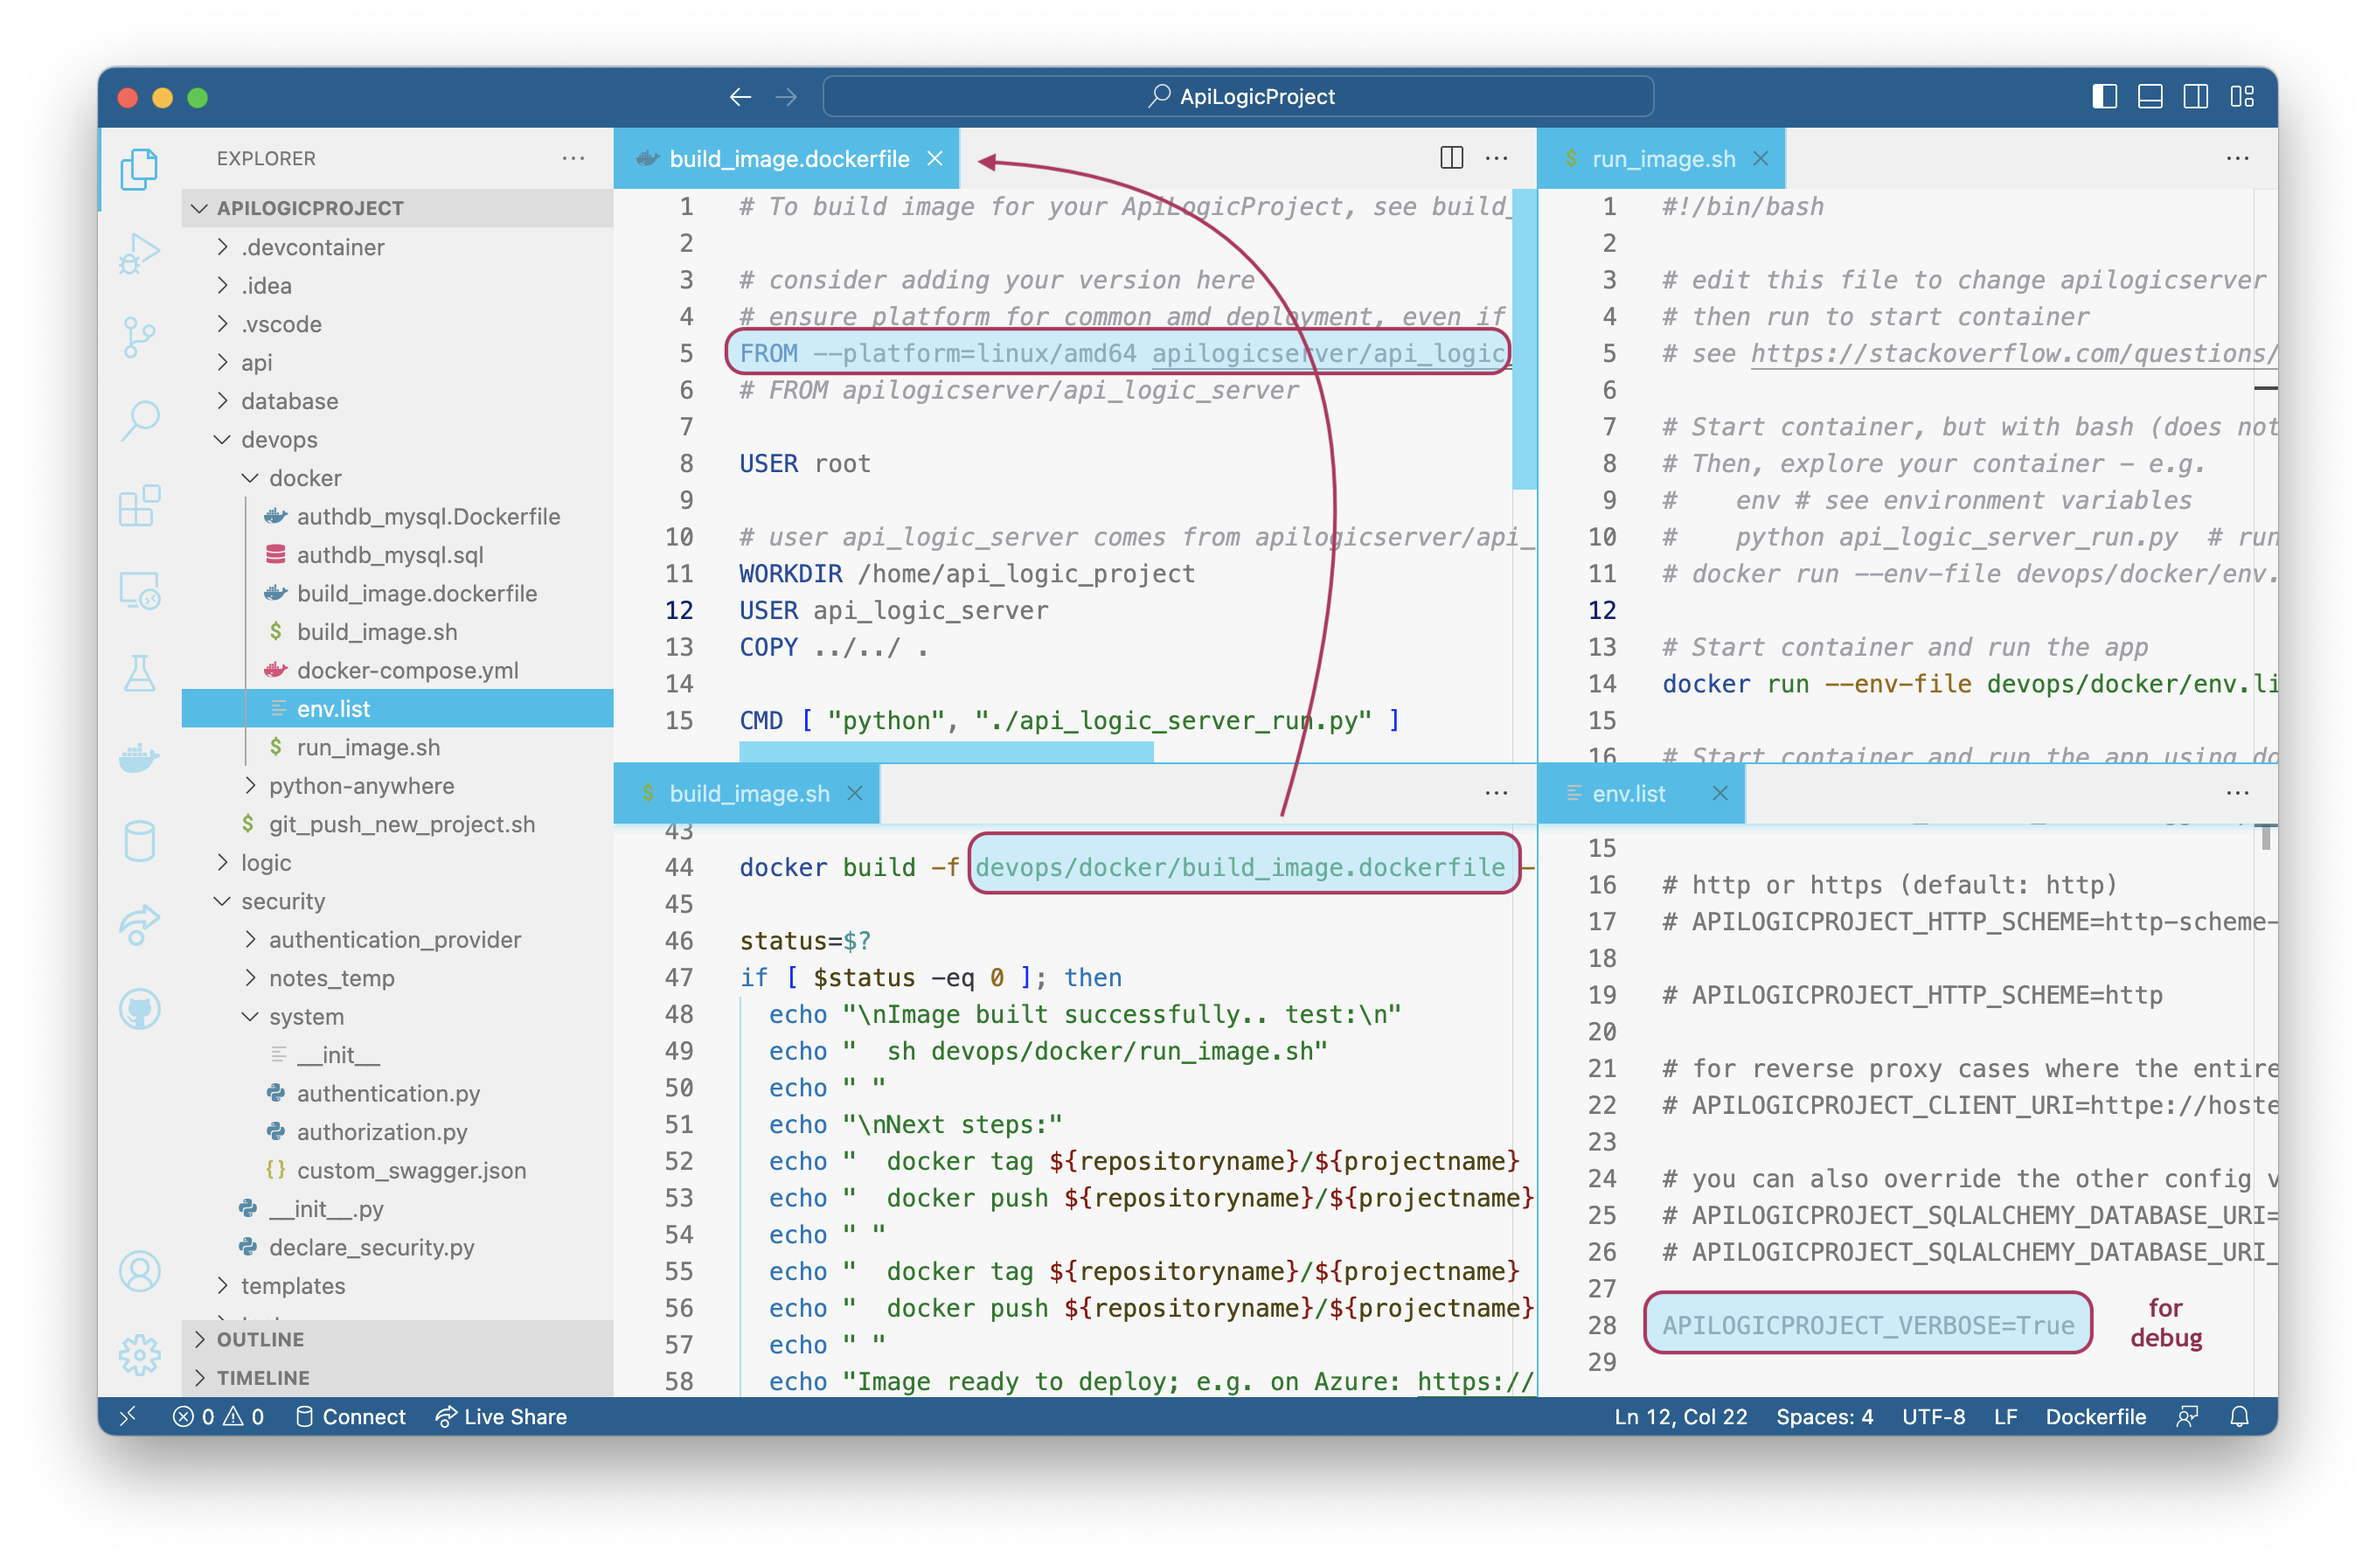
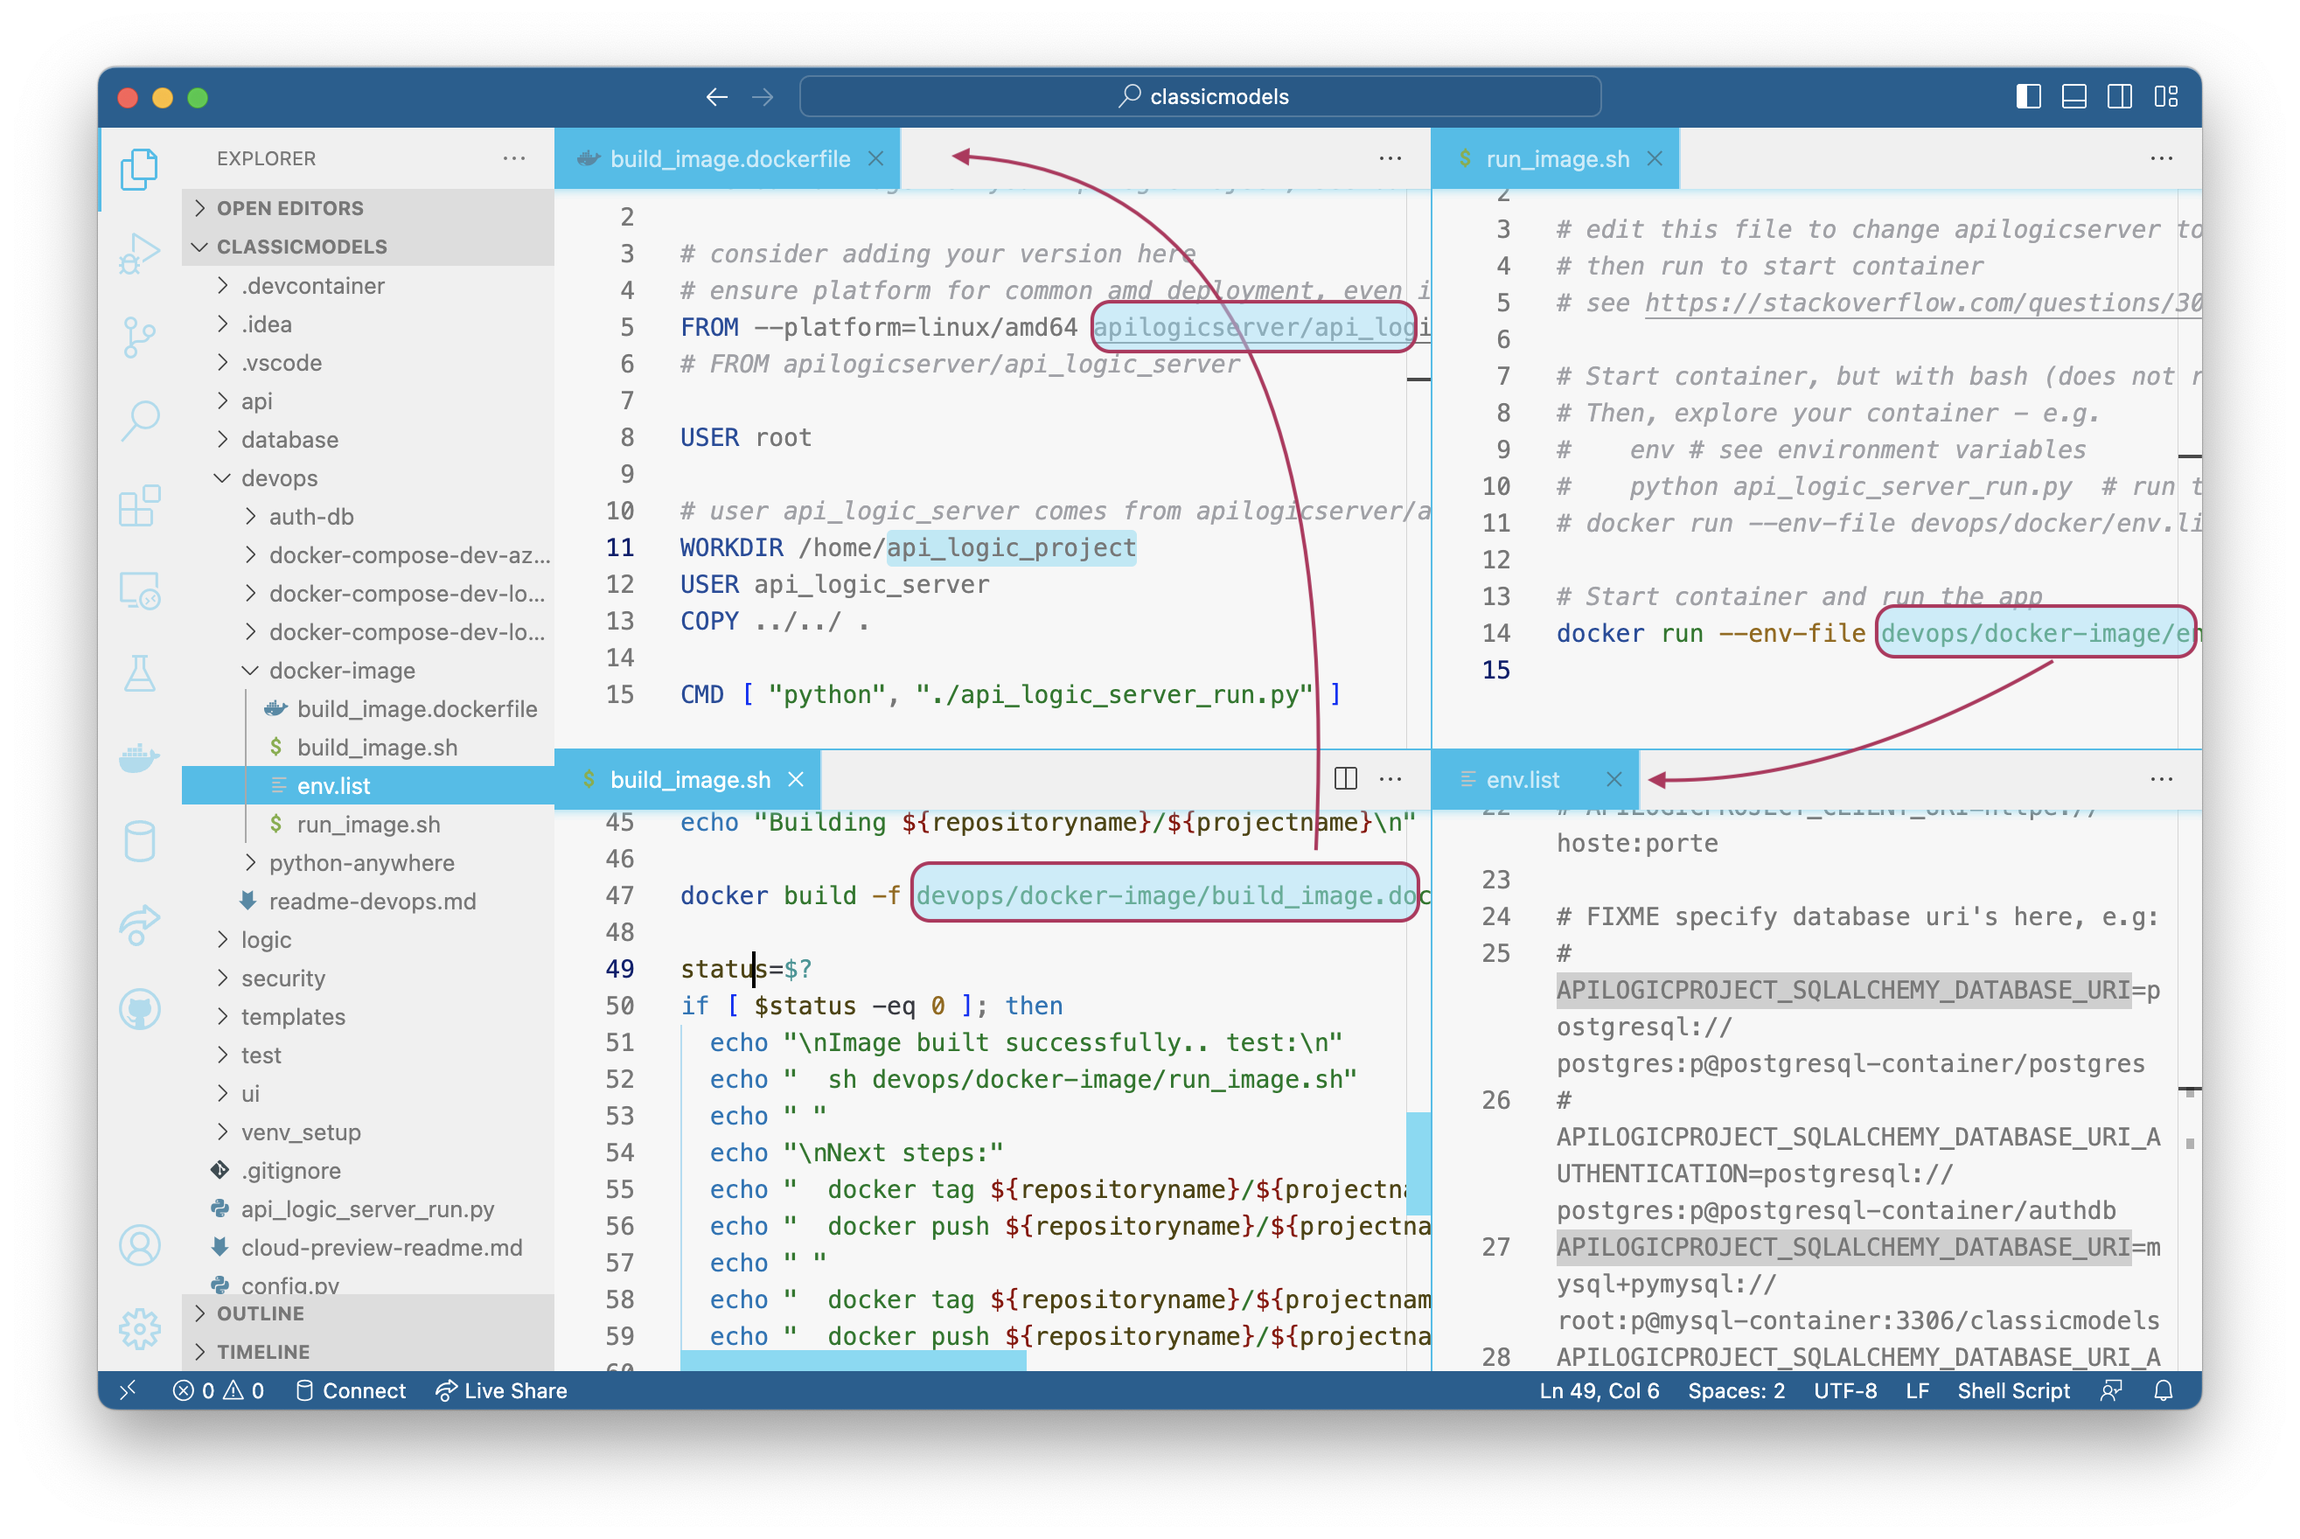
new dir structure

diff --git a/docs/DevOps-Containers-Build.md b/docs/DevOps-Containers-Build.md
@@ -32,10 +32,10 @@ To build an image for your ApiLogicProject:
 1. On Docker Hub, create a docker repository under your docker account. 
 2. Create / customize your project as your normally would
 3. Edit `build-image.sh`: change `your_account/your_repository` as appropriate
-    * Here is [an example](https://github.com/ApiLogicServer/demo/blob/main/devops/docker/build_image.sh){:target="_blank" rel="noopener"}
+    * Here is [an example](https://github.com/ApiLogicServer/demo/blob/main/devops/docker-image/build_image.sh){:target="_blank" rel="noopener"}
 4. In terminal (not in VSCode docker - docker CLI is not installed there), <br>`cd < your-project>`
-5. Run `build-image.sh`: <br> `sh devops/docker/build_image.sh .   # builds the image locally`
-    * Test the image locally - [see Run Container](../DevOps-Containers-Run)
+5. Run `build-image.sh`: <br> `sh devops/docker-image/build_image.sh .   # builds the image locally`
+    * Test the image locally - [see Run Container](../DevOps-Containers-Run){:target="_blank" rel="noopener"}
 
 6. Deploy to Docker Hub
 
@@ -61,13 +61,8 @@ Your project may require additional packages not already included with API Logic
 
 ## MyDB: Test Databases
 
-One of the great things about Docker is the ability to install popular databases, with no hassle.  Follow the procedures described in [Connection Examples](../Database-Connectivity/#docker-databases){:target="_blank" rel="noopener"}.
+One of the great things about Docker is the ability to install popular databases, with no hassle.  Follow the procedures described in [Connection Examples](../Database-Docker/#create-your-own-db-image){:target="_blank" rel="noopener"}.
 
-If you wish, you can add your own database / test data to the pre-supplied [repositories](https://hub.docker.com/repositories/apilogicserver){:target="_blank" rel="noopener"}, and then build an image from the updated result.
-
-> [See here](../Tech-Docker/#preparing-a-database-image-for-self-contained-databases){:target="_blank" rel="noopener"} for notes on how to update / save a docker image.
-
-In most cases, images are code, not data.  The DBMS images, however, include their own data.  This enables fellow developers to `run` the image and get started, without having to understand and setup volumes for DBMS data.
 
 
 [^1]:

diff --git a/docs/Database-Docker.md b/docs/Database-Docker.md
@@ -249,6 +249,9 @@ You can access the database cli via Docker Desktop, to add databases, data etc a
 
 Created projects contain "cheat-sheet" instructions for logging into your database; [click here](https://github.com/ApiLogicServer/demo/tree/main/devops/auth-db).
 
+> [See here](../Tech-Docker/#preparing-a-database-image-for-self-contained-databases){:target="_blank" rel="noopener"} for another example on how to update / save a docker image.
+
+
 ![Authdb](images/devops/multi-tier/authdb.png)
 
 &nbsp;
